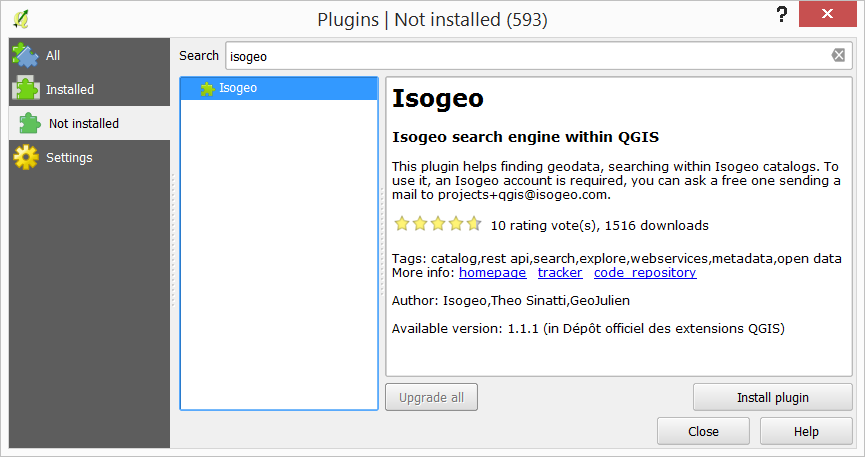
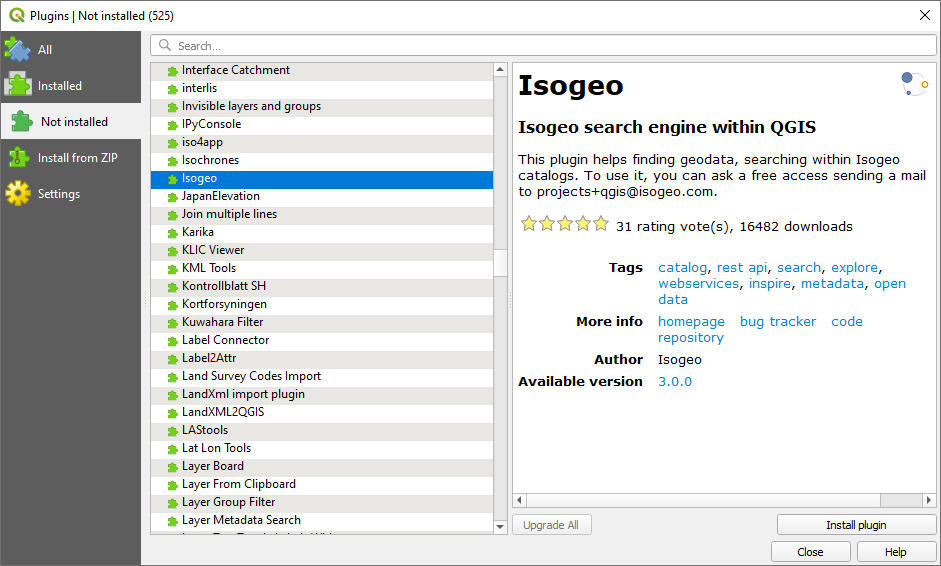
update for 3.0.0 plugin version
close #16

diff --git a/fr/appendices/support.md b/fr/appendices/support.md
@@ -24,7 +24,7 @@ Il faut alors cliquer sur le bouton dédié au signalement (porte-voix rouge) ou
 
   Il est également possible d'y accéder depuis le répertoire des plugins QGIS:
 
-  * version 2.x du plugin (QGIS 3): `C:\Users\%USERNAME%\AppData\Roaming\QGIS\QGIS3\profiles\default\python\plugins\isogeo_search_engine\_log` pour Windows ou dans `/home/$USER/.local/share/QGIS/QGIS3/profiles/default/python/plugins/isogeo_search_engine/_log` pour Ubuntu
+  * version 3.x du plugin (QGIS 3): `C:\Users\%USERNAME%\AppData\Roaming\QGIS\QGIS3\profiles\default\python\plugins\isogeo_search_engine\_log` pour Windows ou dans `/home/$USER/.local/share/QGIS/QGIS3/profiles/default/python/plugins/isogeo_search_engine/_log` pour Ubuntu
 
   * version 1.x du pluign (QGIS 2): `C:\Users\%USERNAME%\.qgis2\python\plugins\isogeo_search_engine\_log` pour Windows ou `/home/$USER/.qgis2/python/plugins/isogeo_search_engine/_log` pour Ubuntu
 

diff --git a/en/appendices/support.md b/en/appendices/support.md
@@ -20,7 +20,7 @@ If the problem persists, [report it in a new Issue](https://github.com/isogeo/is
 
   You can also access it from the QGIS plugin directory:
 
-  - 2.x plugin version (QGIS 3): `C:\Users\%USERNAME%\AppData\Roaming\QGIS\QGIS3\profiles\default\python\plugins\isogeo_search_engine\_log` for Windows or `/home/$USER/.local/share/QGIS/QGIS3/profiles/default/python/plugins/isogeo_search_engine/_log` for Ubuntu
+  - 3.x plugin version (QGIS 3): `C:\Users\%USERNAME%\AppData\Roaming\QGIS\QGIS3\profiles\default\python\plugins\isogeo_search_engine\_log` for Windows or `/home/$USER/.local/share/QGIS/QGIS3/profiles/default/python/plugins/isogeo_search_engine/_log` for Ubuntu
 
   - 1.x plugin version (QGIS 2): `C:\Users\%USERNAME%\.qgis2\python\plugins\isogeo_search_engine\_log` for Windows or `/home/$USER/.qgis2/python/plugins/isogeo_search_engine/_log` for Ubuntu
 

diff --git a/fr/installation/dev.md b/fr/installation/dev.md
@@ -18,7 +18,7 @@ Pour les développeurs ou à des fins de test, il est possible d'utiliser les ve
     git clone https://github.com/isogeo/isogeo-plugin-qgis.git isogeo_search_engine_dev --branch qgis2
     ```
 
-* **version 2.x du plugin**
+* **version 3.x du plugin**
 
     Cloner le dépôt dans `C:\Users\%USERNAME%\AppData\Roaming\QGIS\QGIS3\profiles\default\python\plugins` pour Windows ou dans `/home/$USER/.local/share/QGIS/QGIS3/profiles/default/python/plugins` pour Ubuntu, en spécifiant un nom de dossier **sans caractères spéciaux ni tiret** (contrairement au nom du dépôt) :
 

diff --git a/fr/usage/metadata.md b/fr/usage/metadata.md
@@ -16,7 +16,7 @@ Une fois les résultats affichés, l'utilisateur peut consulter la fiche de mét
 
 Lors de l'ajout d'une donnée à QGIS depuis le plugin, les métadonnées Isogeo (titre, résumé, mots-clés) sont ajoutées aux propriétés de la couche :
 
-* dans l'onglet "QGIS Server" pour la version 2.x du plugin
+* dans l'onglet "QGIS Server" pour la version 3.x du plugin
 
 ![M&eacute;tadonn&eacute;es de couche remplies à partir d&apos;Isogeo (QGSI 3)](/assets/ui_layer_metadata_new_fr.png)
 

diff --git a/en/usage/metadata.md b/en/usage/metadata.md
@@ -12,7 +12,7 @@ From the results list, user can display full Isogeo metadata from the data titel
 
 When a data is added through the plugin, Isogeo metadata (title, abstract, keywords) are automatically added to the layer properties:
 
-* in the "QGIS Server" tab for plugin version 2.x
+* in the "QGIS Server" tab for plugin version 3.x
 
 !["Layer properties fillfulled with Isogeo metadata (QGIS 3)"](/assets/ui_layer_metadata_new_en.png)
 

diff --git a/en/installation/dev.md b/en/installation/dev.md
@@ -9,7 +9,7 @@
 
 ## Development version
 
-* **plugin version 2.x**
+* **plugin version 3.x**
 
     Clone the repository in  `C:\Users\%USERNAME%\AppData\Roaming\QGIS\QGIS3\profiles\default\python\plugins` on Windows or `/home/$USER/.local/share/QGIS/QGIS3/profiles/default/python/plugins` on Ubuntu, specifiying a foldername **without special character nor hyphen** (unlike the repository name...):
 
